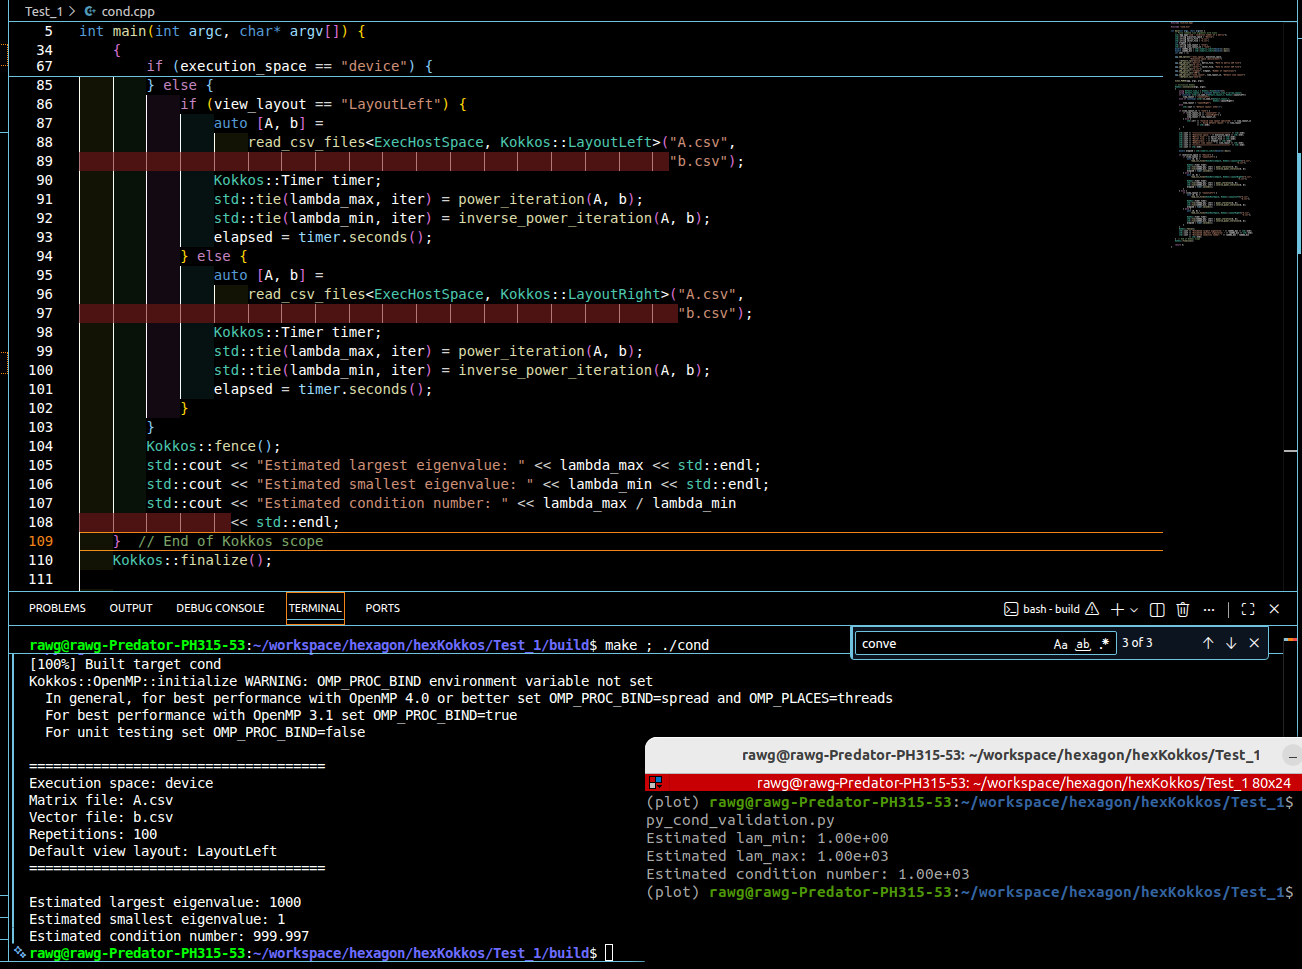
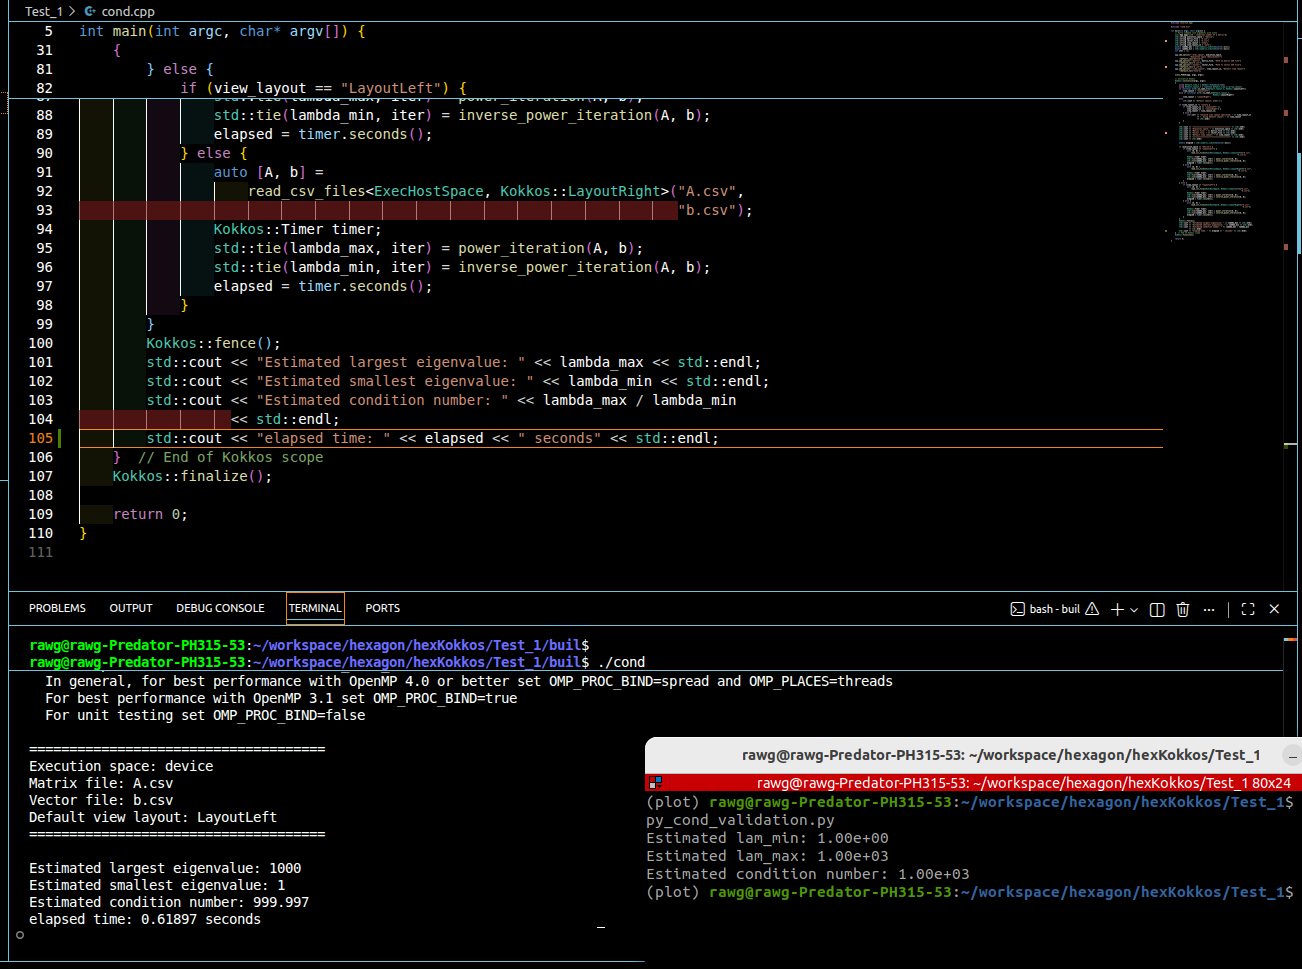
Update output and validation screenshot

Changed region(s): [[0.0, 0.0619, 0.5837, 0.5882], [0.0, 0.6192, 0.9831, 0.9907], [0.8909, 0.031, 0.9831, 0.2477]]

diff --git a/Test_1/cond.cpp b/Test_1/cond.cpp
@@ -8,7 +8,6 @@ int main(int argc, char* argv[]) {
     std::string execution_space = "device";
     std::string matrix_file = "A.csv";
     std::string vector_file = "b.csv";
-    int nrepeat = 1;
     std::string view_layout = "none";
     std::string view_layout_in = "none";
     double lambda_max = std::numeric_limits<double>::min();
@@ -22,8 +21,6 @@ int main(int argc, char* argv[]) {
         ->default_val("A.csv");
     app.add_option("--vector", vector_file, "Path to vector CSV file")
         ->default_val("b.csv");
-    app.add_option("--nrepeat", nrepeat, "Number of repetitions")
-        ->default_val("100");
     app.add_option("--view_layout", view_layout_in, "Default view layout")
         ->default_val("none");
 
@@ -57,7 +54,6 @@ int main(int argc, char* argv[]) {
         std::cout << "Execution space: " << execution_space << std::endl;
         std::cout << "Matrix file: " << matrix_file << std::endl;
         std::cout << "Vector file: " << vector_file << std::endl;
-        std::cout << "Repetitions: " << nrepeat << std::endl;
         std::cout << "Default view layout: " << view_layout << std::endl;
         std::cout << "=====================================" << std::endl;
         std::cout << std::endl;
@@ -106,6 +102,7 @@ int main(int argc, char* argv[]) {
         std::cout << "Estimated smallest eigenvalue: " << lambda_min << std::endl;
         std::cout << "Estimated condition number: " << lambda_max / lambda_min
                   << std::endl;
+        std::cout << "elapsed time: " << elapsed << " seconds" << std::endl;
     }  // End of Kokkos scope
     Kokkos::finalize();
 
